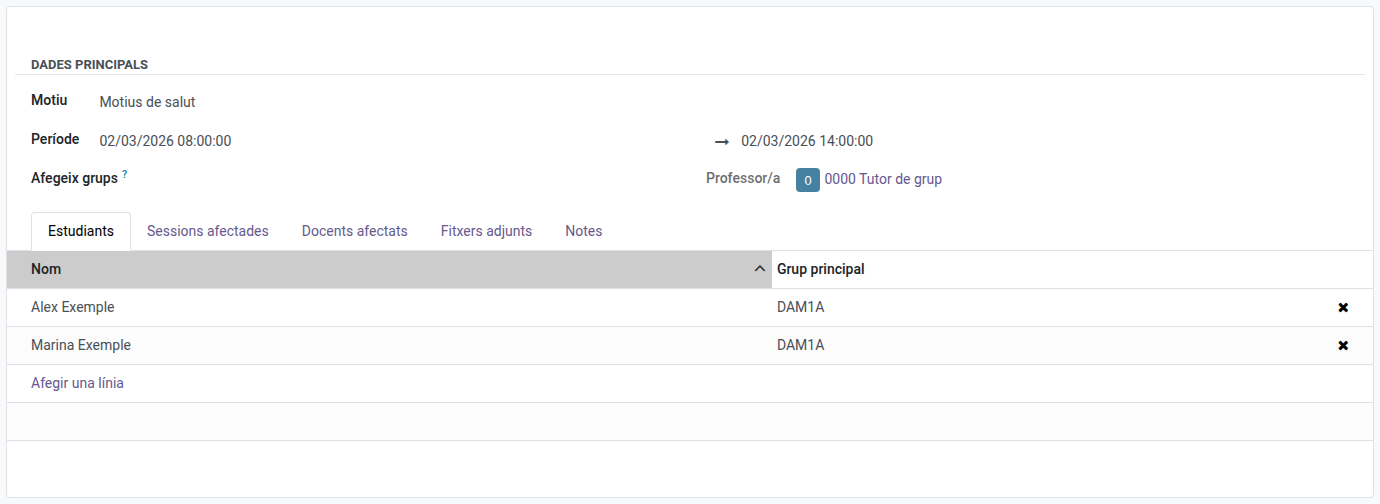
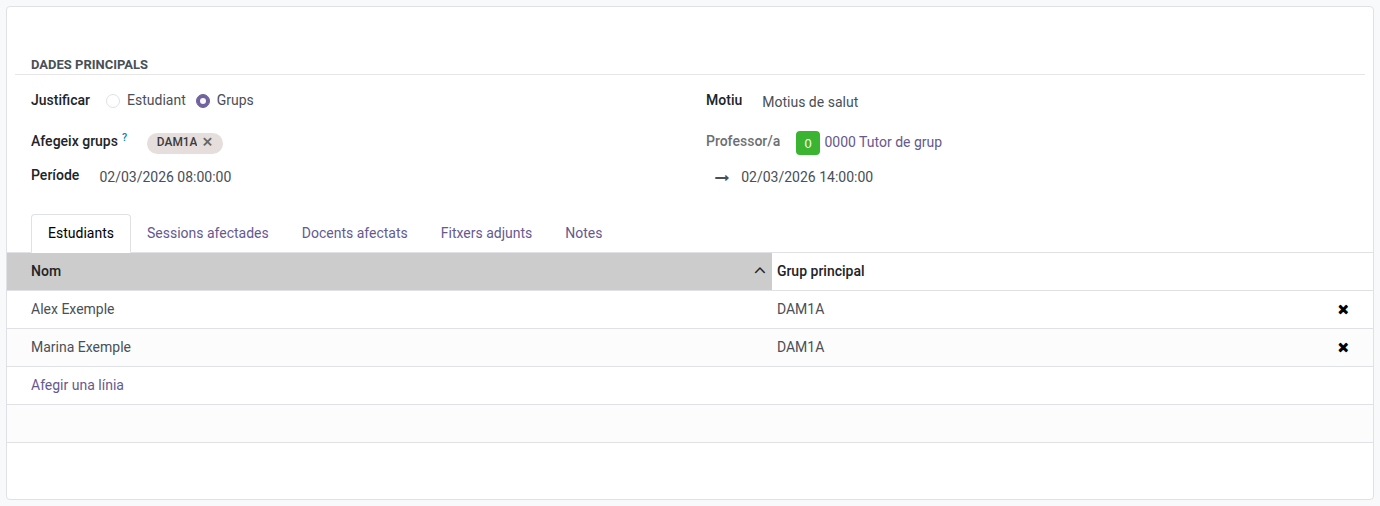
Justifications: audit cleanup and refreshed manual screenshot (#808)

diff --git a/static/tests/tours/docs_screenshots_tour.js b/static/tests/tours/docs_screenshots_tour.js
@@ -47,6 +47,11 @@ registry.category("web_tour.tours").add("ems_doc_shot_tutor_justification", {
             run: "edit 02/03/2026 14:00:00",
         },
         {
+            trigger: ".o_form_view div[name='mode'] input[data-value='group']",
+            content: "Justify a group",
+            run: "click",
+        },
+        {
             trigger: ".o_form_view div[name='add_group_ids'] input",
             content: "Type the tutor's group",
             run: "edit DAM1A",

diff --git a/models/attendance/attendance_justification.py b/models/attendance/attendance_justification.py
@@ -50,7 +50,7 @@ class EmsAttendanceJustification(models.Model):
     # Form helpers, never stored.
     # Issue #808: justify one student (the default, picked directly) or a whole group (its students
     # fill the list, then the unwanted ones are taken out). A justification already covering
-    # several students opens as "Group".
+    # several students opens as "Groups".
     mode = fields.Selection(
         [('student', "Student"), ('group', "Groups")], string="Justify", compute='_compute_mode',
         store=False, readonly=False)
@@ -61,11 +61,11 @@ class EmsAttendanceJustification(models.Model):
     # its students out of the list (_onchange_add_group_ids). applied_group_ids remembers which
     # groups the list already holds, since an onchange only sees the new value.
     add_group_ids = fields.Many2many(
-        string="Add groups", comodel_name="ems.group", relation="ems_attendance_justification_add_group_rel",
+        string="Add groups", comodel_name="ems.group",
         store=False,
         help="Adds every student of these groups to the list. Taking a group out removes its students. Remove afterwards the ones who must not be justified.")
     applied_group_ids = fields.Many2many(
-        string="Groups", comodel_name="ems.group", relation="ems_attendance_justification_applied_group_rel", store=False)
+        string="Groups", comodel_name="ems.group", store=False)
     # The pickers' domains, as text: for an administrator the allowed students are the whole
     # centre, too many ids to send to the browser.
     student_domain = fields.Char(compute='_compute_domains')
@@ -227,14 +227,15 @@ class EmsAttendanceJustification(models.Model):
             groups = justification.add_group_ids._origin
             applied = justification.applied_group_ids._origin
             justification.applied_group_ids = groups
-            if applied - groups:
+            removed, added = applied - groups, groups - applied
+            if removed:
                 justification.student_ids -= justification.student_ids.filtered(
-                    lambda student: student.main_group_id in applied - groups)
-            if not groups - applied:
+                    lambda student: student.main_group_id in removed)
+            if not added:
                 continue
             students = self.env['res.partner'].search([
                 ('contact_type', '=', 'student'),
-                ('main_group_id', 'in', (groups - applied).ids),
+                ('main_group_id', 'in', added.ids),
             ]) - justification.student_ids._origin
             # A student already justified over this period would block saving: not added, and told.
             skipped = justification._overlapping_students(students)
